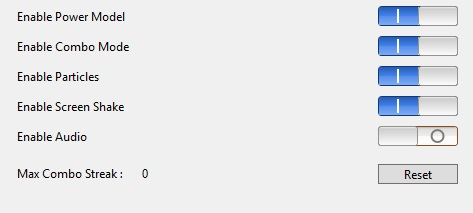
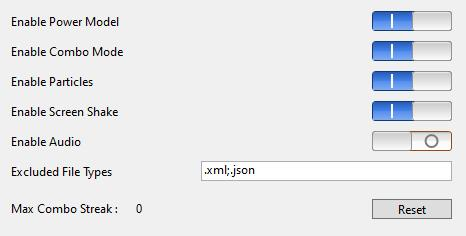
#27 Update the general option page to contain Excluded File Types feature

diff --git a/options/general.md b/options/general.md
@@ -40,6 +40,10 @@ The **Particles** toggle button will be the toggle to control if show or not sho
 
 The **Screen Shake** toggle button will be the toggle to control if shake or not shake the screen when detect user input.
 
+### **Excluded File Types** Textbox
+
+The file types that not enable Power Mode effect. Use `','`, `';'`, `'|'` as the separator and extension must start with `'.'`. The space surround the extension will be ignored.
+
 ### **Reset** Button
 
 The **Reset** button is used to reset the max Combo Streak number.
